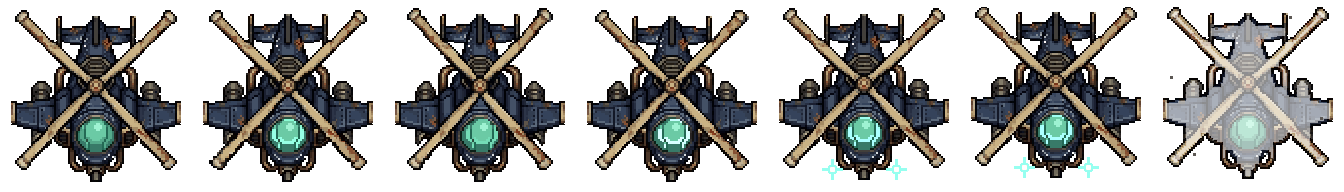
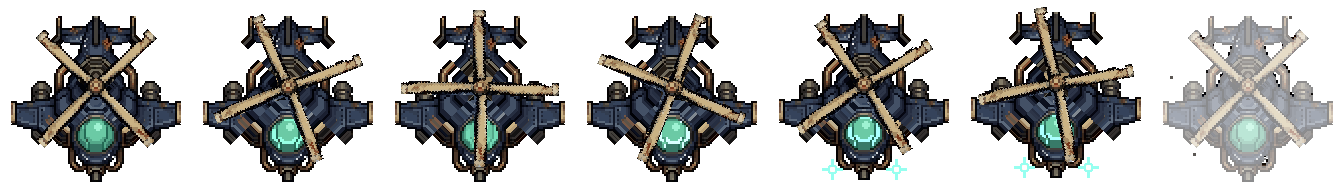
Tide helicopters (Salvage Gyro, Tandem Skimmer) spin their rotors: blades redrawn per idle cell, even rotor timing; rails 15% more transparent (WorldPainter.RailOpacity)

diff --git a/Pause/Assets/Art/Enemies/src~/helicopters/spin_paragon_rotors.py b/Pause/Assets/Art/Enemies/src~/helicopters/spin_paragon_rotors.py
@@ -1,0 +1,234 @@
+"""Spin the rotor of a Paragon-standard helicopter strip (Resources/Enemies/<key>.png, 7 square 192 px cells).
+
+The Paragon redraw (paragon_standard/build.py) painted Salvage Gyro and Tandem Skimmer with their rotor as one fixed
+X: the four idle cells only bob and flicker, so the "helicopter: the rotor spins" flappers (EnemyRoster.WingFlapKeys)
+never spun -- in flight or in the codex, which plays the same idle cells.
+
+This lifts the X off every cell (the band it covered is filled back from its edges with the most common neighbouring
+colour, hard alpha), then lays the SAME painted blades back, sampled 1:1 from the cell's own drawing, at a new angle:
+
+    idle 0-3   0, 22.5, 45, 67.5 deg   (a four-blade cross repeats every 90, so the loop turns smoothly)
+    tell 4-5   11.25, 33.75 deg
+    hit  6     0 deg
+
+A blade on a diagonal reaches the cell's corner, but one turned towards an edge would run off the cell, so every blade
+is cut to the rotor disc that fits the cell (the inner part kept pixel for pixel, the painted tip cap re-attached).
+The hub cap is put back on top. Hull, canopy, pods and glow are untouched outside the blade band.
+
+    python3 spin_paragon_rotors.py tide_fighter_5 tide_fighter_6        (keeps <key>.orig.png beside this script)
+"""
+from __future__ import annotations
+import math, sys
+from collections import Counter
+from pathlib import Path
+import numpy as np
+from PIL import Image
+
+HERE = Path(__file__).resolve().parent
+RES = HERE.parents[2] / "Resources/Enemies"
+CELL, CELLS = 192, 7
+ANGLES = (0.0, 22.5, 45.0, 67.5, 11.25, 33.75, 0.0)
+MARGIN = 3          # px kept clear between a blade tip and the cell edge
+CAP = 7             # px of painted tip cap re-attached to a shortened blade
+
+# key -> rough hub (cell px) and hub-cap radius
+SPECS = {"tide_fighter_5": dict(hub=(96, 85), hubr=7), "tide_fighter_6": dict(hub=(96, 95), hubr=7)}
+
+
+def bone(c):
+    r, g, b, a = (int(x) for x in c)
+    return a > 0 and r > 140 and g > 105 and b > 60 and r - b > 25
+
+
+def fit(cell, hub0):
+    """Two diagonals fitted through the bone-coloured blade pixels; returns hub, 4 arm angles (rad), lengths, half-width."""
+    H = cell.shape[0]
+    ys, xs = np.mgrid[0:H, 0:H]
+    isb = np.zeros((H, H), bool)
+    for y in range(H):
+        for x in range(H):
+            isb[y, x] = bone(cell[y, x])
+    lines = []
+    for base in (45.0, -45.0):
+        u = np.array([math.cos(math.radians(base)), math.sin(math.radians(base))])
+        dx, dy = xs - hub0[0], ys - hub0[1]
+        along, perp = dx * u[0] + dy * u[1], -dx * u[1] + dy * u[0]
+        sel = isb & (np.abs(perp) < 10) & (np.abs(along) > 16)
+        pts = np.stack([xs[sel], ys[sel]], 1).astype(float)
+        c = pts.mean(0)
+        w, v = np.linalg.eigh(np.cov((pts - c).T))
+        d = v[:, np.argmax(w)]
+        lines.append((c, d))
+    (c1, d1), (c2, d2) = lines
+    t = np.linalg.solve(np.array([d1, -d2]).T, c2 - c1)
+    hub = c1 + t[0] * d1
+    arms, lens, perps = [], [], []
+    for _, d in lines:
+        for sgn in (1, -1):
+            u = d * sgn
+            ang = math.atan2(u[1], u[0])
+            dx, dy = xs - hub[0], ys - hub[1]
+            along, perp = dx * u[0] + dy * u[1], -dx * u[1] + dy * u[0]
+            band = (np.abs(perp) < 8) & (along > 12)
+            op = band & (cell[..., 3] > 0) & isb
+            arms.append(ang)
+            lens.append(float(along[op].max()))
+            perps.append(np.abs(perp[op & (along < along[op].max() - CAP)]))
+    hw = float(np.percentile(np.concatenate(perps), 97)) + 1.5     # bone core + its dark outline
+    return hub, arms, lens, hw
+
+
+def band_mask(hub, arms, lens, hw, H, pad_w=1.0, pad_l=2.0):
+    ys, xs = np.mgrid[0:H, 0:H]
+    m = np.zeros((H, H), bool)
+    for ang, L in zip(arms, lens):
+        u = (math.cos(ang), math.sin(ang))
+        dx, dy = xs - hub[0], ys - hub[1]
+        along, perp = dx * u[0] + dy * u[1], -dx * u[1] + dy * u[0]
+        m |= (np.abs(perp) <= hw + pad_w) & (along >= -1) & (along <= L + pad_l)
+    return m
+
+
+def mode_fill(cell, unknown):
+    """Grow the known pixels into the unknown ones, each taking the most common colour among its known 8 neighbours."""
+    out = cell.copy()
+    unk = unknown.copy()
+    H = cell.shape[0]
+    while unk.any():
+        grow = []
+        for y, x in zip(*np.nonzero(unk)):
+            cnt = Counter()
+            for dy in (-1, 0, 1):
+                for dx in (-1, 0, 1):
+                    yy, xx = y + dy, x + dx
+                    if (dy or dx) and 0 <= yy < H and 0 <= xx < H and not unk[yy, xx]:
+                        cnt[tuple(out[yy, xx])] += 2 if (dx == 0 or dy == 0) else 1
+            if cnt:
+                grow.append((y, x, cnt.most_common(1)[0][0]))
+        if not grow:
+            break
+        for y, x, c in grow:
+            out[y, x] = c
+            unk[y, x] = False
+    return out
+
+
+def draw_blades(plate, src, hub, arms, lens, hw, theta, R):
+    out = plate.copy()
+    H = plate.shape[0]
+    th = math.radians(theta)
+    for ang, L in zip(arms, lens):
+        a2 = ang + th
+        u2 = (math.cos(a2), math.sin(a2))
+        u0 = (math.cos(ang), math.sin(ang))
+        for y in range(H):
+            for x in range(H):
+                dx, dy = x + .5 - (hub[0] + .5), y + .5 - (hub[1] + .5)
+                s, p = dx * u2[0] + dy * u2[1], -dx * u2[1] + dy * u2[0]
+                if s < 0 or s > R or abs(p) > hw:
+                    continue
+                s0 = s if s < R - CAP else L - (R - s)        # inner blade 1:1, the last CAP px from the painted tip
+                sx = hub[0] + s0 * u0[0] - p * u0[1]
+                sy = hub[1] + s0 * u0[1] + p * u0[0]
+                ix, iy = int(round(sx)), int(round(sy))
+                if 0 <= ix < H and 0 <= iy < H and src[iy, ix, 3] > 0:
+                    out[y, x] = src[iy, ix]
+    return out
+
+
+GLOW_CELLS = (1, 2, 3, 4, 5)
+
+
+def bone_mask(c):
+    r, g, b, a = (c[..., i].astype(int) for i in range(4))
+    return (a > 0) & (r > 140) & (g > 105) & (b > 60) & (r - b > 25)
+
+
+def glow(c):
+    """The Tide cue band (cyan / teal light: canopy, flames, spark crosses) and near-white highlights."""
+    hsv = np.asarray(Image.fromarray(c, "RGBA").convert("RGB").convert("HSV")).astype(np.float32)
+    h, s, v = hsv[..., 0] * 360 / 255, hsv[..., 1] / 255, hsv[..., 2] / 255
+    cue = (h >= 150) & (h <= 220) & (s > .3) & (v > .5)
+    white = c[..., :3].min(-1) > 215
+    return (c[..., 3] > 0) & (cue | white)
+
+
+def lift(c0, c):
+    """How many px cell c is raised against cell 0 (best vertical roll of c onto c0)."""
+    best = None
+    for dy in range(-6, 7):
+        d = (np.abs(np.roll(c, dy, 0)[..., :3].astype(int) - c0[..., :3].astype(int)).sum(-1) > 30).sum()
+        if best is None or d < best[0]:
+            best = (d, dy)
+    return best[1] if best[0] < 3000 else 0
+
+
+def flash_like(drawn, hit, keep):
+    """The hit cell's white wash (estimated from the original hit cell) over the new drawing, plus its loose chips."""
+    d, h = drawn.astype(np.float32), hit.astype(np.float32)
+    m = keep & (drawn[..., 3] > 0) & (hit[..., 3] > 0)
+    k = float(np.median(((h[..., :3] - d[..., :3]) / np.maximum(255 - d[..., :3], 1))[m]))
+    k = min(max(k, 0.0), .9)
+    out = drawn.copy()
+    op = out[..., 3] > 0
+    out[op, :3] = np.clip(d[op, :3] * (1 - k) + 255 * k, 0, 255).astype(np.uint8)
+    from scipy.ndimage import label
+    loose = (hit[..., 3] > 0) & ~op
+    lab, n = label(loose)
+    for j in range(1, n + 1):
+        comp = lab == j
+        if comp.sum() <= 12:
+            out[comp] = hit[comp]
+    print("  hit wash", round(k, 2))
+    return out
+
+
+def run(key):
+    spec = SPECS[key]
+    path = RES / f"{key}.png"
+    keep = HERE / f"{key}.orig.png"
+    if not keep.exists():
+        Image.open(path).save(keep)
+    strip = np.array(Image.open(keep).convert("RGBA"))
+    cells = [strip[:, i * CELL:(i + 1) * CELL].copy() for i in range(CELLS)]
+    hub, arms, lens, hw = fit(cells[0], spec["hub"])
+    # rotor disc: the largest radius that stays inside the cell (minus the blade's half-width and a margin)
+    R = min(hub[0], hub[1], CELL - 1 - hub[0], CELL - 1 - hub[1]) - hw - MARGIN
+    R = min(R, min(lens))
+    print(key, "hub", np.round(hub, 1), "arms", [round(math.degrees(a), 1) for a in arms], "len", [round(l) for l in lens],
+          "hw", round(hw, 1), "-> rotor radius", round(R, 1))
+    wide = band_mask(hub, arms, lens, hw, CELL, pad_w=3.5, pad_l=8)
+    hy, hx = np.mgrid[0:CELL, 0:CELL]
+    hubdisc = (hx - hub[0]) ** 2 + (hy - hub[1]) ** 2 <= spec["hubr"] ** 2
+    c0 = cells[0]
+    plate = mode_fill(c0, wide & ~hubdisc)
+    plate[hubdisc] = c0[hubdisc]
+    from scipy.ndimage import label
+    lab, n = label(plate[..., 3] > 0)                 # stray bits of the old blade tips left floating outside the hull
+    for j in range(1, n + 1):
+        if (lab == j).sum() < 60:
+            plate[lab == j] = 0
+    out = []
+    for i, c in enumerate(cells):
+        dy = lift(c0, c)                     # the tell / hit cells are cell 0 raised a few px
+        base = plate.copy()
+        if i in GLOW_CELLS:
+            g = glow(c) & ~bone_mask(c)
+            if dy == 0:
+                g &= plate[..., 3] > 0       # an idle cell's own glow, never past the hull's outline
+            g = np.roll(g, dy, 0)            # into cell 0's frame
+            base[g] = np.roll(c, dy, 0)[g]
+        drawn = draw_blades(base, c0, hub, arms, lens, hw, ANGLES[i], R)
+        drawn[hubdisc] = base[hubdisc]
+        drawn = np.roll(drawn, -dy, 0)
+        if i == 6:
+            drawn = flash_like(drawn, c, ~np.roll(wide, -dy, 0))
+        drawn[..., 3] = np.where(drawn[..., 3] > 128, 255, 0)
+        out.append(drawn)
+    Image.fromarray(np.concatenate(out, 1), "RGBA").save(path)
+    print("wrote", path)
+
+
+if __name__ == "__main__":
+    for k in sys.argv[1:] or list(SPECS):
+        run(k)

diff --git a/Pause/Assets/Editor/Tests/WorldBackdropTest.cs b/Pause/Assets/Editor/Tests/WorldBackdropTest.cs
@@ -1448,7 +1448,7 @@ public static class WorldBackdropTest
     // Frost's rails are dimmed (WorldPainter.RailBrightness) so they recede
     // behind the lane: rendered alone through the game camera, their light
     // is 50..70% of the undimmed rail's, and every other world draws its
-    // rail exactly as painted. Run after CheckSpaceRailMaterials (gameS1 open).
+    // rail as painted (rgb); every world's rail alpha is x WorldPainter.RailOpacity. Run after CheckSpaceRailMaterials (gameS1 open).
     static void CheckRailBrightness()
     {
         var cam = Camera.main;
@@ -1481,8 +1481,12 @@ public static class WorldBackdropTest
                     Check("Frost rails render at its rail dial (" + (ratio * 100f).ToString("F0") + "% of the painted rail, dial " +
                           (saved * 100f).ToString("F0") + "%)", before > 1f && Mathf.Abs(ratio - saved) < .02f);
                 else
-                    Check(theme.displayName + " rails render as painted (" + (ratio * 100f).ToString("F1") + "%, tint untouched)",
-                          before > 1f && Mathf.Abs(ratio - 1f) < .01f && mat.color == theme.tint);
+                    Check(theme.displayName + " rails render as painted (" + (ratio * 100f).ToString("F1") + "%, tint rgb untouched, alpha x" +
+                          WorldPainter.RailOpacity.ToString("F2") + ")",
+                          before > 1f && Mathf.Abs(ratio - 1f) < .01f && mat.color == WorldPainter.RailTint(theme) &&
+                          mat.color.r == theme.tint.r && mat.color.g == theme.tint.g && mat.color.b == theme.tint.b);
+                Check(theme.displayName + " rails draw " + (WorldPainter.RailOpacity * 100f).ToString("F0") + "% as opaque as painted (tint alpha " +
+                      mat.color.a.ToString("F3") + ")", WorldPainter.RailOpacity == .85f && Mathf.Abs(mat.color.a - theme.tint.a * .85f) < .002f);
             }
         }
         finally

diff --git a/Pause/Assets/Editor/Tests/RailTransparencyTest.cs b/Pause/Assets/Editor/Tests/RailTransparencyTest.cs
@@ -109,10 +109,19 @@ public static class RailTransparencyTest
         cam.clearFlags = CameraClearFlags.SolidColor;
         cam.backgroundColor = Color.black; var gameK = Render(cam);
         cam.backgroundColor = Color.white; var gameW = Render(cam);
-        foreach (var m in mats) { m.SetFloat("_EdgeDark", 0f); m.SetFloat("_EdgeShadow", 0f); m.SetFloat("_OuterDark", 0f); }
+        // the ART pass reads the PNG's own alpha: edge treatments off and the game-wide rail fade
+        // (WorldPainter.RailOpacity, in the tint alpha) undone; the game pass above keeps both
+        var tints = new Color[mats.Length];
+        for (int k = 0; k < mats.Length; k++)
+        {
+            var m = mats[k];
+            m.SetFloat("_EdgeDark", 0f); m.SetFloat("_EdgeShadow", 0f); m.SetFloat("_OuterDark", 0f);
+            tints[k] = m.color;
+            var c = tints[k]; c.a = Mathf.Min(1f, c.a / WorldPainter.RailOpacity); m.color = c;
+        }
         cam.backgroundColor = Color.black; var artK = Render(cam);
         cam.backgroundColor = Color.white; var artW = Render(cam);
-        foreach (var m in mats) WorldPainter.ApplyEdge(m, theme.displayName);
+        for (int k = 0; k < mats.Length; k++) { mats[k].color = tints[k]; WorldPainter.ApplyEdge(mats[k], theme.displayName); }
         cam.clearFlags = flags; cam.backgroundColor = bg;
         foreach (var rr in others) if (rr != null) rr.enabled = true;
 

diff --git a/Pause/Assets/Scripts/Worlds/WorldPainter.cs b/Pause/Assets/Scripts/Worlds/WorldPainter.cs
@@ -75,13 +75,20 @@ public static class WorldPainter
         return world == "Frost" ? FrostRailBrightness : 1f;
     }
 
+    // ---- rail opacity ----
+    // Every world's rails are drawn this much as opaque as painted ("make the
+    // rails about 15% more transparent"): the rail material's tint alpha, which
+    // WorldRailRepeat multiplies into the art's own alpha. The silhouette the
+    // boss rails, rail mines and crash edge measure is the PNG's, so it stays.
+    public const float RailOpacity = .85f;
+
     // The colour the rail material is tinted with for `theme`.
     public static Color RailTint(WorldTheme theme)
     {
-        if (theme == null) return Color.white;
+        if (theme == null) return new Color(1f, 1f, 1f, RailOpacity);
         Color c = theme.tint;
         float k = RailBrightness(theme.displayName);
-        return new Color(c.r * k, c.g * k, c.b * k, c.a);
+        return new Color(c.r * k, c.g * k, c.b * k, c.a * RailOpacity);
     }
 
     public const string RailShader = "WorldRailRepeat";

diff --git a/Pause/Assets/Scripts/Gameplay/Enemies/EnemyRoster.cs b/Pause/Assets/Scripts/Gameplay/Enemies/EnemyRoster.cs
@@ -236,9 +236,16 @@ public static class EnemyRoster
         }
     }
 
+    // The Tide helicopters' idle cells are one rotor turned 22.5 deg a cell (Art/Enemies/src~/helicopters/
+    // spin_paragon_rotors.py): even holds, so the rotor turns at a steady speed instead of stalling on cell 0.
+    public const int RotorIdleTicks = 3;
+    public static readonly string[] SpinningRotorKeys = { "tide_fighter_5", "tide_fighter_6" };
+    public static bool SpinsRotor(EnemyDef def) => def != null && System.Array.IndexOf(SpinningRotorKeys, def.key) >= 0;
+
     public static int[] IdleTicks(EnemyDef def) =>
         def != null && def.key == "space_alien"
             ? new[] { SpaceAlienIdleTicks, SpaceAlienIdleTicks, SpaceAlienIdleTicks, SpaceAlienIdleTicks }
+            : SpinsRotor(def) ? new[] { RotorIdleTicks, RotorIdleTicks, RotorIdleTicks, RotorIdleTicks }
             : FlapsWings(def) ? OriginalIdleTicks(def.role) : IdleTicks(def.role);
 
     // What EnemyFlipbook actually loops (the Steel Hound loops all four idle

diff --git a/Pause/Assets/Editor/Tests/EnemyRosterTest.cs b/Pause/Assets/Editor/Tests/EnemyRosterTest.cs
@@ -125,6 +125,9 @@ public static class EnemyRosterTest
         {
             Check(t.key + " has a shot, rotor animation and a death strip",
                   t.Behaviour != null && t.Behaviour.attack == EnemyAttack.Shot && EnemyRoster.FlapsWings(t) && EnemyDeathFlipbook.Frames(t) != null);
+            var ticks = EnemyRoster.IdleTicks(t);
+            Check(t.key + " turns its rotor at a steady speed (even idle holds)",
+                  EnemyRoster.SpinsRotor(t) && ticks.Length == 4 && System.Array.TrueForAll(ticks, x => x == ticks[0]));
         }
         Check("Space has no helicopter", EnemyRoster.Helicopter(0) == null);
         int seen = 0, early = 0, n = 3000;
